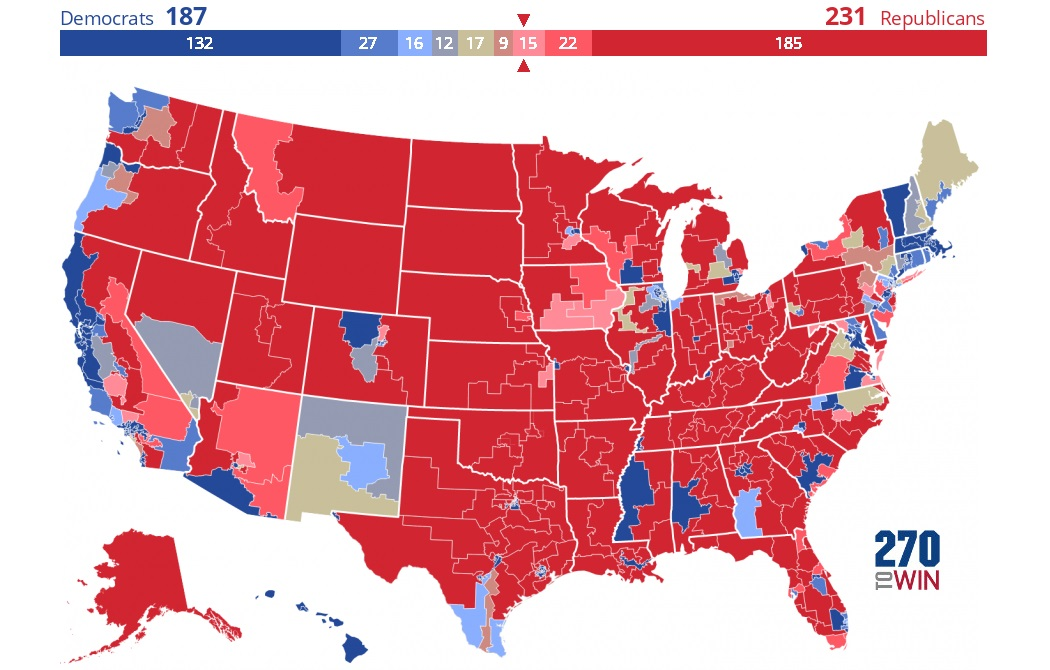
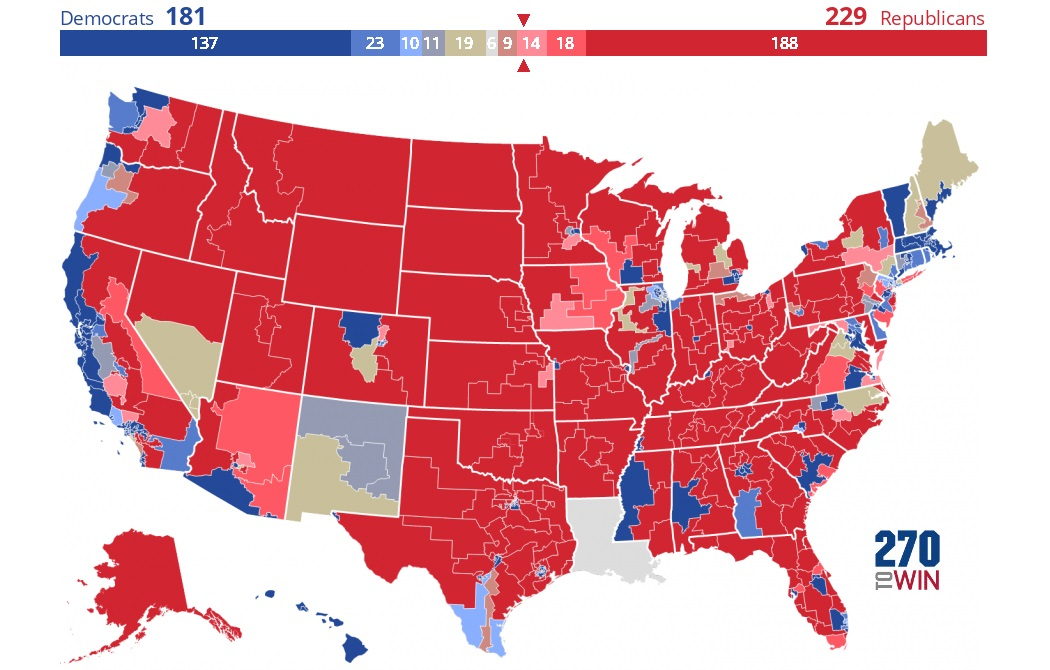
Add files via upload

diff --git a/updates/june8/index.html b/updates/june8/index.html
@@ -1,0 +1,144 @@
+<!DOCTYPE html>
+<html lang="en">
+<head>
+    <meta charset="UTF-8">
+    <meta http-equiv="X-UA-Compatible" content="IE=edge">
+    <meta name="viewport" content="width=device-width, initial-scale=1.0">
+    <title>2022 Election Predictions</title>
+    <link rel="stylesheet" href="../../css/styles.css">
+</head>
+<body>
+    <div id="header-bar">
+        <header><a href="../../">Election 2022</a></header>
+        <nav>
+            <div id="desktop-navbar">
+                <a href="../../house">House</a>
+                <a href="../../senate">Senate</a>
+                <a href="../../governor">Governor</a>
+            </div>
+            <p id="hamburger">☰</p>
+        </nav>
+    </div>
+    
+    <div id="mobile-collapse">
+        <a href="../../house">House</a>
+        <a href="../../senate">Senate</a>
+        <a href="../../governor">Governor</a>
+    </div>
+    <main>
+        <h1>June 8 House Updates</h1>
+        <table>
+            <thead>
+                <tr><th>District</th><th>Rating Before</th><th>Rating Now</th></tr>
+            </thead>
+            <tbody>
+                <tr><td>AZ-4</td><td>Toss-up Tilt D</td><td>Toss-up</td></tr>
+                <tr><td>CA-23</td><td>Likely R</td><td>Safe R</td></tr>
+                <tr><td>CA-24</td><td>Likely D</td><td>Safe D</td></tr>
+                <tr><td>CA-41</td><td>Likely R</td><td>Safe R</td></tr>
+                <tr><td>CA-47</td><td>Toss-up</td><td>Toss-up Tilt R</td></tr>
+                <tr><td>CO-7</td><td>Tilt D</td><td>Toss-up Tilt D</td></tr>
+                <tr><td>FL-4</td><td>Likely R</td><td>Safe R</td></tr>
+                <tr><td>FL-9</td><td>Likely D</td><td>Safe D</td></tr>
+                <tr><td>FL-13</td><td>Likely R</td><td>Safe R</td></tr>
+                <tr><td>FL-14</td><td>Likely D</td><td>Safe D</td></tr>
+                <tr><td>FL-27</td><td>Likely R</td><td>Safe R</td></tr>
+                <tr><td>GA-2</td><td>Leans D</td><td>Likely D</td></tr>
+                <tr><td>IN-1</td><td>Leans D</td><td>Likely D</td></tr>
+                <tr><td>IA-1</td><td>Leans R</td><td>Likely R</td></tr>
+                <tr><td>ME-1</td><td>Likely D</td><td>Safe D</td></tr>
+                <tr><td>MI-3</td><td>Toss-up</td><td>Toss-up Tilt R</td></tr>
+                <tr><td>MI-7</td><td>Toss-up Tilt R</td><td>Tilt R</td></tr>
+                <tr><td>MI-8</td><td>Tilt D</td><td>Toss-up Tilt D</td></tr>
+                <tr><td>MI-10</td><td>Leans R</td><td>Likely R</td></tr>
+                <tr><td>MN-3</td><td>Leans D</td><td>Tilt D</td></tr>
+                <tr><td>MT-1</td><td>Likely R</td><td>Safe R</td></tr>
+                <tr><td>NE-2</td><td>Likely R</td><td>Safe R</td></tr>
+                <tr><td>NV-1</td><td>Tilt D</td><td>Toss-up Tilt D</td></tr>
+                <tr><td>NV-3</td><td>Toss-up Tilt D</td><td>Toss-up</td></tr>
+                <tr><td>NV-4</td><td>Tilt D</td><td>Toss-up Tilt D</td></tr>
+                <tr><td>NH-1</td><td>Toss-up Tilt R</td><td>Tilt R</td></tr>
+                <tr><td>NH-2</td><td>Tilt D</td><td>Toss-up Tilt D</td></tr>
+                <tr><td>NJ-1</td><td>Likely D</td><td>Safe D</td></tr>
+                <tr><td>NM-1</td><td>Leans D</td><td>Tilt D</td></tr>
+                <tr><td>NM-2</td><td>Toss-up</td><td>Toss-up Tilt R</td></tr>
+                <tr><td>NY-1</td><td>Leans R</td><td>Likely R</td></tr>
+                <tr><td>NY-19</td><td>Tilt R</td><td>Leans R</td></tr>
+                <tr><td>NY-22</td><td>Toss-up</td><td>Toss-up Tilt R</td></tr>
+                <tr><td>NY-24</td><td>Likely R</td><td>Safe R</td></tr>
+                <tr><td>NC-1</td><td>Toss-up Tilt D</td><td>Toss-up</td></tr>
+                <tr><td>NC-6</td><td>Leans D</td><td>Tilt D</td></tr>
+                <tr><td>OH-1</td><td>Tilt R</td><td>Leans R</td></tr>
+                <tr><td>PA-4</td><td>Leans D</td><td>Tilt D</td></tr>
+                <tr><td>PA-7</td><td>Leans R</td><td>Likely R</td></tr>
+                <tr><td>PA-17</td><td>Toss-up Tilt R</td><td>Tilt R</td></tr>
+                <tr><td>VA-10</td><td>Toss-up Tilt D</td><td>Toss-up</td></tr>
+                <tr><td>WA-2</td><td>Likely D</td><td>Safe D</td></tr>
+                <tr><td>WA-8</td><td>Tilt R</td><td>Leans R</td></tr>
+            </tbody>
+        </table>
+        <h1>2022 House Ratings: Safe R</h1>
+        <a class="link270" href="https://www.270towin.com/2022-house-election/kqxR0L5" target="_blank">Interactive Map</a>
+        <table id="houseTable">
+            <thead>
+                <tr><th>State</th><th>Safe R</th><th>Likely R</th><th>Leans R</th><th>Tilt R</th><th>Toss-up Tilt R</th><th>Toss-up</th><th>Toss-up Tilt D</th><th>Tilt D</th><th>Leans D</th><th>Likely D</th><th>Safe D</th></tr>
+            </thead>
+            <tbody>
+                <tr><td>AL</td><td>1, 2, 3, 4, 5, 6</td><td></td><td></td><td></td><td></td><td></td><td></td><td></td><td></td><td></td><td>7</td></tr>
+                <tr><td>AK</td><td>AL</td><td></td><td></td><td></td><td></td><td></td><td></td><td></td><td></td><td></td><td></td></tr>
+                <tr><td>AZ</td><td>5, 8, 9</td><td>2, 6</td><td>1</td><td></td><td></td><td>4</td><td></td><td></td><td></td><td></td><td>3, 7</td></tr>
+                <tr><td>AR</td><td>1, 2, 3, 4</td><td></td><td></td><td></td><td></td><td></td><td></td><td></td><td></td><td></td><td></td></tr>
+                <tr><td>CA</td><td>1, 5, 20, 40, 41, 48, 23</td><td>3</td><td>22, 27</td><td>45, 49</td><td>47</td><td></td><td></td><td>13</td><td>26</td><td>6, 9, 21, 25</td><td>2, 4, 7, 8, 10, 11, 12, 14, 15, 16, 17, 18, 19, 24, 28, 29, 30, 31, 32, 33, 34, 35, 36, 37, 38, 39, 42, 43, 44, 46, 50, 51, 52</td></tr>
+                <tr><td>CO</td><td>3, 4, 5</td><td></td><td>8</td><td></td><td></td><td></td><td>7</td><td></td><td></td><td>6</td><td>1, 2</td></tr>
+                <tr><td>CT</td><td></td><td></td><td></td><td></td><td></td><td></td><td></td><td>5</td><td></td><td>2, 3</td><td>1, 4</td></tr>
+                <tr><td>DE</td><td></td><td></td><td></td><td></td><td></td><td></td><td></td><td></td><td></td><td>AL</td><td></td></tr>
+                <tr><td>FL</td><td>1, 2, 3, 4, 5, 6, 8, 11, 12, 13, 16, 17, 18, 19, 21, 26, 27</td><td>7, 15, 28</td><td></td><td></td><td></td><td></td><td></td><td></td><td>23</td><td>22, 25</td><td>9, 14, 10, 20, 24</td></tr>
+                <tr><td>GA</td><td>1, 3, 6, 8, 9, 10, 11, 12, 14</td><td></td><td></td><td></td><td></td><td></td><td></td><td></td><td></td><td>2</td><td>4, 5, 7, 13</td></tr>
+                <tr><td>HI</td><td></td><td></td><td></td><td></td><td></td><td></td><td></td><td></td><td></td><td></td><td>1, 2</td></tr>
+                <tr><td>ID</td><td>1, 2</td><td></td><td></td><td></td><td></td><td></td><td></td><td></td><td></td><td></td><td></td></tr>
+                <tr><td>IL</td><td>12, 15, 16</td><td></td><td></td><td></td><td></td><td>6, 17</td><td></td><td>13, 14</td><td>11</td><td>10</td><td>1, 2, 3, 4, 5, 7, 8, 9</td></tr>
+                <tr><td>IN</td><td>2, 3, 4, 5, 6, 8, 9</td><td></td><td></td><td></td><td></td><td></td><td></td><td></td><td></td><td>1</td><td>7</td></tr>
+                <tr><td>IA</td><td>4</td><td>1, 2</td><td> 3</td><td></td><td></td><td></td><td></td><td></td><td></td><td></td><td></td></tr>
+                <tr><td>KS</td><td>1, 2, 4</td><td></td><td>3</td><td></td><td></td><td></td><td></td><td></td><td></td><td></td><td></td></tr>
+                <tr><td>KY</td><td>1, 2, 4, 5, 6</td><td></td><td></td><td></td><td></td><td></td><td></td><td></td><td></td><td></td><td>3</td></tr>
+                <tr><td>LA</td><td>1, 3, 4, 5, 6</td><td></td><td></td><td></td><td></td><td></td><td></td><td></td><td></td><td></td><td>2</td></tr>
+                <tr><td>ME</td><td></td><td></td><td></td><td></td><td></td><td>2</td><td></td><td></td><td></td><td></td><td>1</td></tr>
+                <tr><td>MD</td><td>1</td><td></td><td>6</td><td></td><td></td><td></td><td></td><td></td><td></td><td>2, 3</td><td>4, 5, 7, 8</td></tr>
+                <tr><td>MA</td><td></td><td></td><td></td><td></td><td></td><td></td><td></td><td></td><td></td><td></td><td>1, 2, 3, 4, 5, 6, 7, 8, 9</td></tr>
+                <tr><td>MI</td><td>1, 2, 4, 5, 9</td><td>10</td><td></td><td>7</td><td>3</td><td></td><td>8</td><td></td><td></td><td></td><td>6, 11, 12, 13</td></tr>
+                <tr><td>MN</td><td>1, 6, 7, 8</td><td></td><td>2</td><td></td><td></td><td></td><td></td><td>3</td><td></td><td></td><td>4, 5</td></tr>
+                <tr><td>MS</td><td>1, 3, 4</td><td></td><td></td><td></td><td></td><td></td><td></td><td></td><td></td><td></td><td>2</td></tr>
+                <tr><td>MO</td><td>2, 3, 4, 6, 7, 8</td><td></td><td></td><td></td><td></td><td></td><td></td><td></td><td></td><td></td><td>1, 5</td></tr>
+                <tr><td>MT</td><td>1, 2</td><td></td><td></td><td></td><td></td><td></td><td></td><td></td><td></td><td></td><td></td></tr>
+                <tr><td>NE</td><td>1, 2, 3</td><td></td><td></td><td></td><td></td><td></td><td></td><td></td><td></td><td></td><td></td></tr>
+                <tr><td>NV</td><td>2</td><td></td><td></td><td></td><td></td><td>3</td><td>1, 4</td><td></td><td></td><td></td><td></td></tr>
+                <tr><td>NH</td><td></td><td></td><td></td><td>1</td><td></td><td></td><td>2</td><td></td><td></td><td></td><td></td></tr>
+                <tr><td>NJ</td><td>4</td><td>2, 7</td><td></td><td></td><td></td><td></td><td></td><td></td><td>5, 11</td><td>3</td><td>1, 6, 8, 9, 10, 12</td></tr>
+                <tr><td>NM</td><td></td><td></td><td></td><td></td><td>2</td><td></td><td></td><td>1, 3</td><td></td><td></td><td></td></tr>
+                <tr><td>NY</td><td>21, 23, 24</td><td>1, 2, 11</td><td>19</td><td></td><td>22</td><td>3, 18</td><td></td><td></td><td>4</td><td>17, 20, 25</td><td>5, 6, 7, 8, 9, 10, 12, 13, 14, 15, 16, 26</td></tr>
+                <tr><td>NC</td><td>3, 5, 7, 8, 9, 10, 11</td><td></td><td>13</td><td></td><td></td><td>1</td><td></td><td>6</td><td>14</td><td></td><td>2, 4, 12</td></tr>
+                <tr><td>ND</td><td>AL</td><td></td><td></td><td></td><td></td><td></td><td></td><td></td><td></td><td></td><td></td></tr>
+                <tr><td>OH</td><td>2, 4, 5, 6, 7, 8, 10, 12, 14, 15</td><td></td><td>1, 13</td><td>9</td><td></td><td></td><td></td><td></td><td></td><td></td><td>3, 11</td></tr>
+                <tr><td>OK</td><td>1, 2, 3, 4, 5</td><td></td><td></td><td></td><td></td><td></td><td></td><td></td><td></td><td></td><td></td></tr>
+                <tr><td>OR</td><td>2</td><td></td><td></td><td>5</td><td></td><td></td><td></td><td>6</td><td>4</td><td></td><td>1, 3</td></tr>
+                <tr><td>PA</td><td>1, 9, 10, 11, 13, 14, 15, 16</td><td>7</td><td></td><td>8, 17</td><td></td><td></td><td></td><td>4, 6</td><td></td><td>12</td><td>2, 3, 5</td></tr>
+                <tr><td>RI</td><td></td><td></td><td></td><td></td><td></td><td></td><td></td><td></td><td></td><td>2</td><td>1</td></tr>
+                <tr><td>SC</td><td>2, 3, 4, 5, 7</td><td>1</td><td></td><td></td><td></td><td></td><td></td><td></td><td></td><td></td><td>6</td></tr>
+                <tr><td>SD</td><td>AL</td><td></td><td></td><td></td><td></td><td></td><td></td><td></td><td></td><td></td><td></td></tr>
+                <tr><td>TN</td><td>1, 2, 3, 4, 5, 6, 7, 8</td><td></td><td></td><td></td><td></td><td></td><td></td><td></td><td></td><td></td><td>9</td></tr>
+                <tr><td>TX</td><td>1, 2, 3, 4, 5, 6, 8, 10, 11, 12, 13, 14, 17, 19, 21, 22, 23, 24, 25, 26, 27, 31, 36, 38</td><td></td><td></td><td>15</td><td></td><td></td><td></td><td></td><td>28, 34</td><td></td><td></td></tr>
+                <tr><td>UT</td><td>1, 2, 3, 4</td><td></td><td></td><td></td><td></td><td></td><td></td><td></td><td></td><td></td><td></td></tr>
+                <tr><td>VT</td><td></td><td></td><td></td><td></td><td></td><td></td><td></td><td></td><td></td><td></td><td>1</td></tr>
+                <tr><td>VA</td><td>1, 6, 9</td><td>5</td><td>2</td><td></td><td></td><td>7, 10</td><td></td><td></td><td></td><td></td><td>3, 4, 8, 11</td></tr>
+                <tr><td>WA</td><td>3, 4, 5</td><td></td><td>8</td><td></td><td></td><td></td><td></td><td></td><td></td><td>6</td><td>1, 2, 7, 9, 10</td></tr>
+                <tr><td>WV</td><td>1, 2</td><td></td><td></td><td></td><td></td><td></td><td></td><td></td><td></td><td></td><td></td></tr>
+                <tr><td>WI</td><td>1, 5, 6, 7, 8</td><td>3</td><td></td><td></td><td></td><td></td><td></td><td></td><td></td><td></td><td>2, 4</td></tr>
+                <tr><td>WY</td><td>AL</td><td></td><td></td><td></td><td></td><td></td><td></td><td></td><td></td><td></td><td></td></tr>
+                <tr><td>Total</td><td>193</td><td>18</td><td>14</td><td>9</td><td>4</td><td>9</td><td>6</td><td>11</td><td>10</td><td>23</td><td>138</td></tr>
+                <tr><td>Total</td><td colspan="5">238</td><td>9</td><td colspan="5">188</td></tr>
+            </tbody>
+        </table>
+    </main>
+    <script src="../../js/script.js"></script>
+</body>
+</html>

diff --git a/house/index.html b/house/index.html
@@ -29,7 +29,7 @@
         <h1>2022 House Ratings: Safe R</h1>
         <h5>All data is my own, image created using 270towin.com</h5>
         <img id="header-image" src="../images/latest/house.jpg" alt="House Ratings">
-        <a class="link270" href="https://www.270towin.com/2022-house-election/LMQrxP5" target="_blank">Interactive Map</a>
+        <a class="link270" href="https://www.270towin.com/2022-house-election/kqxR0L5" target="_blank">Interactive Map</a>
         <p>In addition to the standard rating types (safe, likely, leans, tilt, toss-up) my ratings add a new type: toss-up tilt. These races are basically tossups, but one party has a very slight edge.</p>
         <table id="houseTable">
             <thead>
@@ -45,7 +45,7 @@
                 <tr><td>CT</td><td></td><td></td><td></td><td></td><td></td><td></td><td></td><td>5</td><td></td><td>2, 3</td><td>1, 4</td></tr>
                 <tr><td>DE</td><td></td><td></td><td></td><td></td><td></td><td></td><td></td><td></td><td></td><td>AL</td><td></td></tr>
                 <tr><td>FL</td><td>1, 2, 3, 5, 6, 8, 11, 12, 16, 17, 18, 19, 21, 26</td><td>4, 7, 13, 15, 27, 28</td><td></td><td></td><td></td><td></td><td></td><td></td><td>23</td><td>9, 14, 22, 25</td><td>10, 20, 24</td></tr>
-                <tr><td>GA</td><td>1, 3, 6, 8, 9, 10, 11, 12, 14</td><td></td><td></td><td></td><td></td><td></td><td></td><td></td><td></td><td>2</td><td>4, 5, 7, 13</td></tr>
+                <tr><td>GA</td><td>1, 3, 6, 8, 9, 10, 11, 12, 14</td><td></td><td></td><td></td><td></td><td></td><td></td><td></td><td>2</td><td></td><td>4, 5, 7, 13</td></tr>
                 <tr><td>HI</td><td></td><td></td><td></td><td></td><td></td><td></td><td></td><td></td><td></td><td></td><td>1, 2</td></tr>
                 <tr><td>ID</td><td>1, 2</td><td></td><td></td><td></td><td></td><td></td><td></td><td></td><td></td><td></td><td></td></tr>
                 <tr><td>IL</td><td>12, 15, 16</td><td></td><td></td><td></td><td></td><td>6, 17</td><td></td><td>13, 14</td><td>11</td><td>10</td><td>1, 2, 3, 4, 5, 7, 8, 9</td></tr>
@@ -73,7 +73,7 @@
                 <tr><td>OH</td><td>2, 4, 5, 6, 7, 8, 10, 12, 14, 15</td><td></td><td>13</td><td>1, 9</td><td></td><td></td><td></td><td></td><td></td><td></td><td>3, 11</td></tr>
                 <tr><td>OK</td><td>1, 2, 3, 4, 5</td><td></td><td></td><td></td><td></td><td></td><td></td><td></td><td></td><td></td><td></td></tr>
                 <tr><td>OR</td><td>2</td><td></td><td></td><td>5</td><td></td><td></td><td></td><td>6</td><td>4</td><td></td><td>1, 3</td></tr>
-                <tr><td>PA</td><td>1, 9, 10, 11, 13, 14, 15, 16</td><td></td><td>7</td><td>8</td><td>2</td><td></td><td></td><td>6</td><td>4</td><td>12</td><td>2, 3, 5</td></tr>
+                <tr><td>PA</td><td>1, 9, 10, 11, 13, 14, 15, 16</td><td></td><td>7</td><td>8</td><td>17</td><td></td><td></td><td>6</td><td>4</td><td>12</td><td>2, 3, 5</td></tr>
                 <tr><td>RI</td><td></td><td></td><td></td><td></td><td></td><td></td><td></td><td></td><td></td><td>2</td><td>1</td></tr>
                 <tr><td>SC</td><td>2, 3, 4, 5, 7</td><td>1</td><td></td><td></td><td></td><td></td><td></td><td></td><td></td><td></td><td>6</td></tr>
                 <tr><td>SD</td><td>AL</td><td></td><td></td><td></td><td></td><td></td><td></td><td></td><td></td><td></td><td></td></tr>
@@ -86,7 +86,7 @@
                 <tr><td>WV</td><td>1, 2</td><td></td><td></td><td></td><td></td><td></td><td></td><td></td><td></td><td></td><td></td></tr>
                 <tr><td>WI</td><td>1, 5, 6, 7, 8</td><td>3</td><td></td><td></td><td></td><td></td><td></td><td></td><td></td><td></td><td>2, 4</td></tr>
                 <tr><td>WY</td><td>AL</td><td></td><td></td><td></td><td></td><td></td><td></td><td></td><td></td><td></td><td></td></tr>
-                <tr><td>Total</td><td>185</td><td>22</td><td>15</td><td>9</td><td>3</td><td>17</td><td>4</td><td>12</td><td>16</td><td>27</td><td>132</td></tr>
+                <tr><td>Total</td><td>185</td><td>22</td><td>15</td><td>9</td><td>3</td><td>10</td><td>4</td><td>12</td><td>16</td><td>27</td><td>132</td></tr>
                 <tr><td>Total</td><td colspan="5">234</td><td>10</td><td colspan="5">191</td></tr>
             </tbody>
         </table>

diff --git a/updates/june2/index.html b/updates/june2/index.html
@@ -36,12 +36,12 @@
                 <tr><td>AK</td><td>Safe R</td></tr>
                 <tr><td>AL</td><td>Safe R</td></tr>
                 <tr><td>AR</td><td>Safe R</td></tr>
-                <tr><td>AZ</td><td>Tossup</td></tr>
+                <tr><td>AZ</td><td>Toss-up</td></tr>
                 <tr><td>CA</td><td>Safe D</td></tr>
                 <tr><td>CO</td><td>Likely D</td></tr>
                 <tr><td>CT</td><td>Safe D</td></tr>
                 <tr><td>FL</td><td>Safe R</td></tr>
-                <tr><td>GA</td><td>Tossup</td></tr>
+                <tr><td>GA</td><td>Toss-up</td></tr>
                 <tr><td>HI</td><td>Safe D</td></tr>
                 <tr><td>IA</td><td>Safe R</td></tr>
                 <tr><td>ID</td><td>Safe R</td></tr>
@@ -55,7 +55,7 @@
                 <tr><td>NC</td><td>Likely R</td></tr>
                 <tr><td>ND</td><td>Safe R</td></tr>
                 <tr><td>NH</td><td>Tilt D</td></tr>
-                <tr><td>NV</td><td>Tossup</td></tr>
+                <tr><td>NV</td><td>Toss-up</td></tr>
                 <tr><td>NY</td><td>Safe D</td></tr>
                 <tr><td>OH</td><td>Likely R</td></tr>
                 <tr><td>OK</td><td>Safe R</td></tr>
@@ -74,7 +74,7 @@
         <a class="link270" href="https://www.270towin.com/2022-house-election/LMQrxP5" target="_blank">Interactive Map</a>
         <table id="houseTable">
             <thead>
-                <tr><th>State</th><th>Safe R</th><th>Likely R</th><th>Leans R</th><th>Tilt R</th><th>Tossup Tilt R</th><th>Tossup</th><th>Tossup Tilt D</th><th>Tilt D</th><th>Leans D</th><th>Likely D</th><th>Safe D</th></tr>
+                <tr><th>State</th><th>Safe R</th><th>Likely R</th><th>Leans R</th><th>Tilt R</th><th>Toss-up Tilt R</th><th>Toss-up</th><th>Toss-up Tilt D</th><th>Tilt D</th><th>Leans D</th><th>Likely D</th><th>Safe D</th></tr>
             </thead>
             <tbody>
                 <tr><td>AL</td><td>1, 2, 3, 4, 5, 6</td><td></td><td></td><td></td><td></td><td></td><td></td><td></td><td></td><td></td><td>7</td></tr>
@@ -127,7 +127,7 @@
                 <tr><td>WV</td><td>1, 2</td><td></td><td></td><td></td><td></td><td></td><td></td><td></td><td></td><td></td><td></td></tr>
                 <tr><td>WI</td><td>1, 5, 6, 7, 8</td><td>3</td><td></td><td></td><td></td><td></td><td></td><td></td><td></td><td></td><td>2, 4</td></tr>
                 <tr><td>WY</td><td>AL</td><td></td><td></td><td></td><td></td><td></td><td></td><td></td><td></td><td></td><td></td></tr>
-                <tr><td>Total</td><td>185</td><td>22</td><td>15</td><td>9</td><td>3</td><td>17</td><td>4</td><td>12</td><td>16</td><td>27</td><td>132</td></tr>
+                <tr><td>Total</td><td>185</td><td>22</td><td>15</td><td>9</td><td>3</td><td>10</td><td>4</td><td>12</td><td>16</td><td>27</td><td>132</td></tr>
                 <tr><td>Total</td><td colspan="5">234</td><td>10</td><td colspan="5">191</td></tr>
             </tbody>
         </table>
@@ -141,7 +141,7 @@
                 <tr><td>AK</td><td>Safe R</td></tr>
                 <tr><td>AL</td><td>Safe R</td></tr>
                 <tr><td>AR</td><td>Safe R</td></tr>
-                <tr><td>AZ</td><td>Tossup</td></tr>
+                <tr><td>AZ</td><td>Toss-up</td></tr>
                 <tr><td>CA</td><td>Safe D</td></tr>
                 <tr><td>CO</td><td>Likely D</td></tr>
                 <tr><td>CT</td><td>Safe D</td></tr>
@@ -155,12 +155,12 @@
                 <tr><td>ME</td><td>Tilt D</td></tr>
                 <tr><td>MD</td><td>Likely D</td></tr>
                 <tr><td>MA</td><td>Safe D</td></tr>
-                <tr><td>MI</td><td>Tossup</td></tr>
+                <tr><td>MI</td><td>Toss-up</td></tr>
                 <tr><td>MN</td><td>Tilt D</td></tr>
                 <tr><td>NE</td><td>Safe R</td></tr>
                 <tr><td>NH</td><td>Safe R</td></tr>
                 <tr><td>NM</td><td>Leans D</td></tr>
-                <tr><td>NV</td><td>Tossup</td></tr>
+                <tr><td>NV</td><td>Toss-up</td></tr>
                 <tr><td>NY</td><td>Likely D</td></tr>
                 <tr><td>OH</td><td>Safe R</td></tr>
                 <tr><td>OK</td><td>Safe R</td></tr>

diff --git a/governor/index.html b/governor/index.html
@@ -38,7 +38,7 @@
                 <tr><td>AK</td><td>Safe R</td></tr>
                 <tr><td>AL</td><td>Safe R</td></tr>
                 <tr><td>AR</td><td>Safe R</td></tr>
-                <tr><td>AZ</td><td>Tossup</td></tr>
+                <tr><td>AZ</td><td>Toss-up</td></tr>
                 <tr><td>CA</td><td>Safe D</td></tr>
                 <tr><td>CO</td><td>Likely D</td></tr>
                 <tr><td>CT</td><td>Safe D</td></tr>
@@ -52,12 +52,12 @@
                 <tr><td>ME</td><td>Tilt D</td></tr>
                 <tr><td>MD</td><td>Likely D</td></tr>
                 <tr><td>MA</td><td>Safe D</td></tr>
-                <tr><td>MI</td><td>Tossup</td></tr>
+                <tr><td>MI</td><td>Toss-up</td></tr>
                 <tr><td>MN</td><td>Tilt D</td></tr>
                 <tr><td>NE</td><td>Safe R</td></tr>
                 <tr><td>NH</td><td>Safe R</td></tr>
                 <tr><td>NM</td><td>Leans D</td></tr>
-                <tr><td>NV</td><td>Tossup</td></tr>
+                <tr><td>NV</td><td>Toss-up</td></tr>
                 <tr><td>NY</td><td>Likely D</td></tr>
                 <tr><td>OH</td><td>Safe R</td></tr>
                 <tr><td>OK</td><td>Safe R</td></tr>

diff --git a/senate/index.html b/senate/index.html
@@ -38,12 +38,12 @@
                 <tr><td>AK</td><td>Safe R</td></tr>
                 <tr><td>AL</td><td>Safe R</td></tr>
                 <tr><td>AR</td><td>Safe R</td></tr>
-                <tr><td>AZ</td><td>Tossup</td></tr>
+                <tr><td>AZ</td><td>Toss-up</td></tr>
                 <tr><td>CA</td><td>Safe D</td></tr>
                 <tr><td>CO</td><td>Likely D</td></tr>
                 <tr><td>CT</td><td>Safe D</td></tr>
                 <tr><td>FL</td><td>Safe R</td></tr>
-                <tr><td>GA</td><td>Tossup</td></tr>
+                <tr><td>GA</td><td>Toss-up</td></tr>
                 <tr><td>HI</td><td>Safe D</td></tr>
                 <tr><td>IA</td><td>Safe R</td></tr>
                 <tr><td>ID</td><td>Safe R</td></tr>
@@ -57,7 +57,7 @@
                 <tr><td>NC</td><td>Likely R</td></tr>
                 <tr><td>ND</td><td>Safe R</td></tr>
                 <tr><td>NH</td><td>Tilt D</td></tr>
-                <tr><td>NV</td><td>Tossup</td></tr>
+                <tr><td>NV</td><td>Toss-up</td></tr>
                 <tr><td>NY</td><td>Safe D</td></tr>
                 <tr><td>OH</td><td>Likely R</td></tr>
                 <tr><td>OK</td><td>Safe R</td></tr>

diff --git a/index.html b/index.html
@@ -37,6 +37,9 @@
         </div>
         <h2>Recent Updates</h2>
         <hr>
+        <a href="updates/june8" class="post">
+            <h3>June 8: House predictions updated.</h3>
+        </a>
         <a href="updates/june2" class="post">
             <h3>June 2: Intial predictions released.</h3>
         </a>
